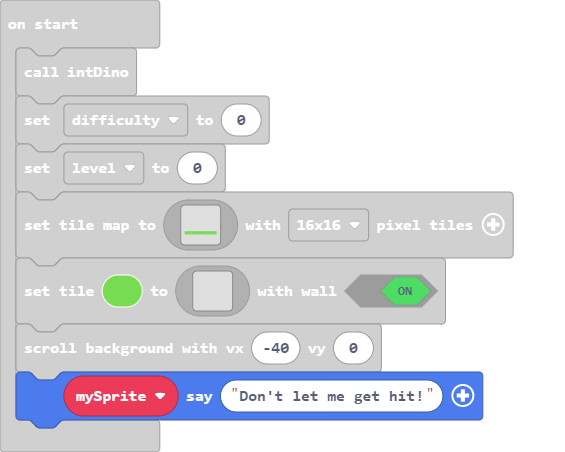
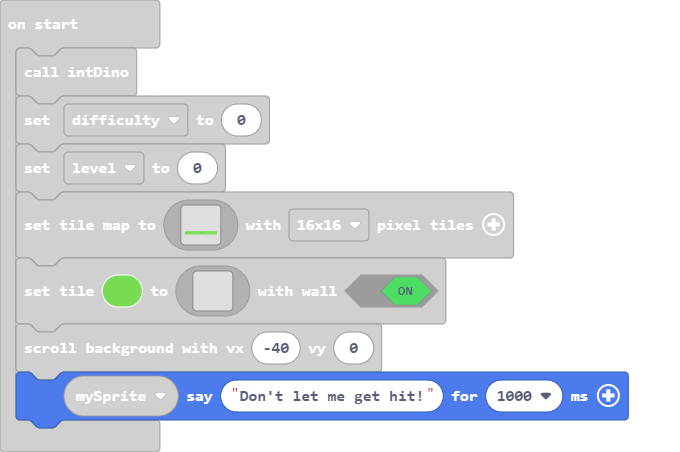
Update main.blocks, main.ts

diff --git a/main.ts b/main.ts
@@ -264,7 +264,7 @@ scene.setTile(7, img`
     . . . . . . . . . . . . . . . . 
     `, true)
 scroller.scrollBackgroundWithSpeed(-40, 0)
-mySprite.say("Don't let me get hit!")
+mySprite.say("Don't let me get hit!", 1000)
 forever(function () {
     if (info.score() == 10) {
         info.changeScoreBy(1)
